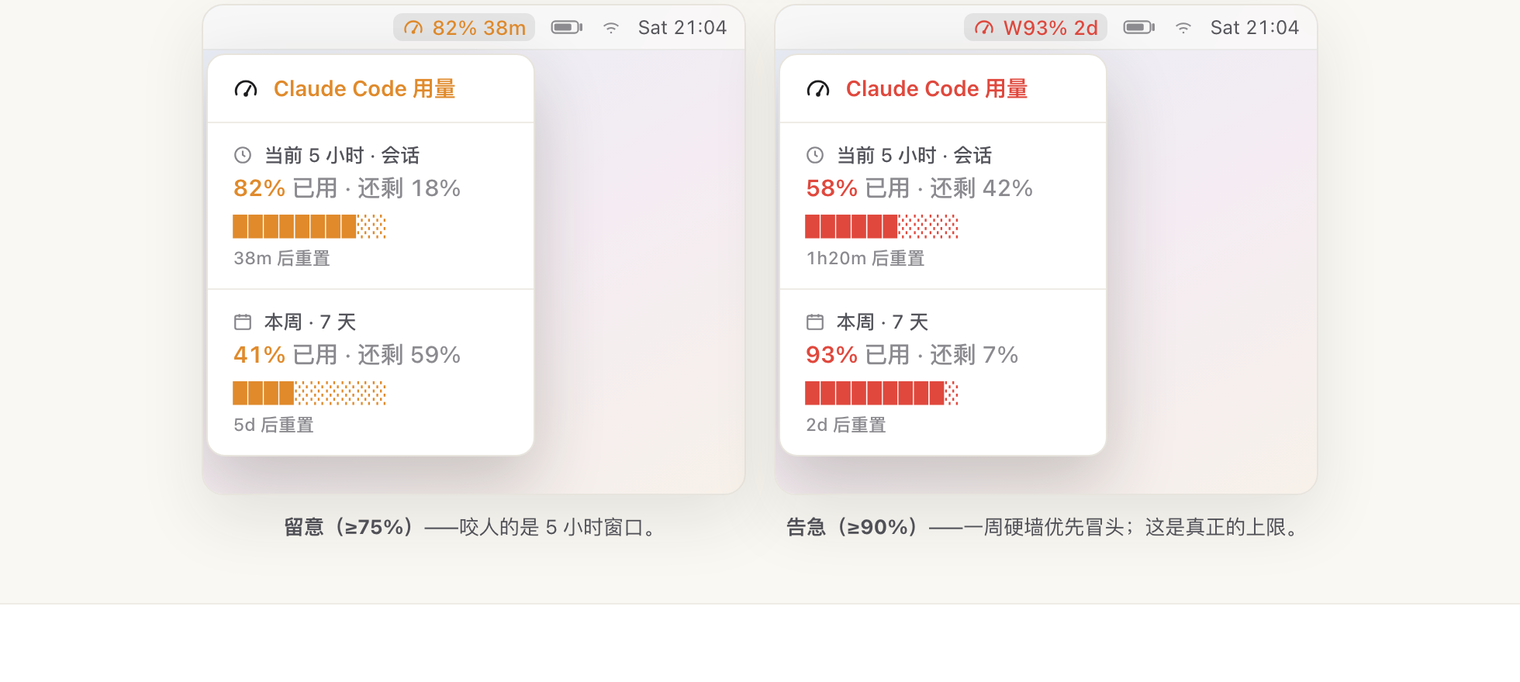
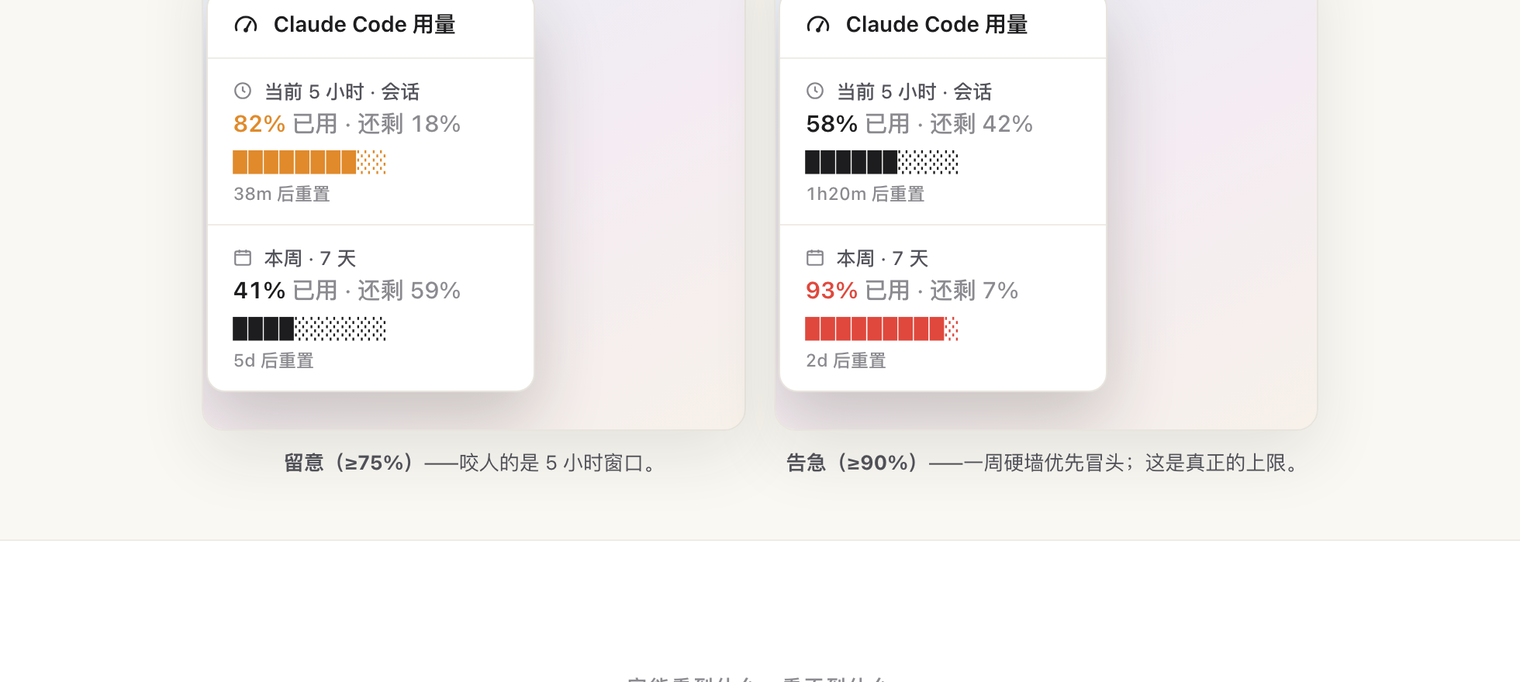
fix: dropdown inherited the gauge's warn/crit color, tinting whole card
Moving the dropdown inside the .mbg.warn/.crit span (to anchor it under the
gauge) made it inherit the alert color, so below-threshold rows and the
header rendered amber/red too. Reset .dropdown to var(--ink) so only rows
explicitly marked warn/crit are colored — matching the real plugin, which
colors each window by its own level (scol(fh)/scol(wk)). Regenerate states.png.

Changed region(s): [[0.4947, 0.0, 0.8658, 0.8006], [0.1237, 0.0, 0.4947, 0.8006], [0.402, 0.9853, 0.5566, 1.0]]

diff --git a/site/index.html b/site/index.html
@@ -82,10 +82,9 @@
 
   /* ---------- hero ---------- */
   .hero{padding:88px 0 40px;text-align:center}
-  .hero-checks{display:flex;flex-wrap:wrap;gap:9px 18px;justify-content:center;align-items:center;margin:0 auto 18px;max-width:640px}
-  .hero-checks span{display:inline-flex;align-items:center;gap:6px;font-size:15px;font-weight:550;color:var(--ink-soft)}
+  .hero-checks{display:flex;flex-wrap:wrap;gap:9px 18px;justify-content:center;align-items:center;margin:0 auto 30px;max-width:640px}
+  .hero-checks>span{display:inline-flex;align-items:center;gap:6px;font-size:15px;font-weight:550;color:var(--ink-soft)}
   .hero-checks svg{width:17px;height:17px;flex:none}
-  .hero-kicker{font-size:14.5px;color:var(--ink-faint);margin:0 auto 30px}
   h1{
     font-size:clamp(38px,6.4vw,68px);line-height:1.02;letter-spacing:-.035em;
     font-weight:700;margin:0 0 20px;
@@ -143,7 +142,7 @@
   @media(max-width:680px){.popover{position:static;margin-top:9px}}
   .dropdown{
     width:286px;background:#fff;border:1px solid var(--line);border-radius:12px;overflow:hidden;
-    box-shadow:0 24px 60px rgba(40,36,28,.28);text-align:left;
+    box-shadow:0 24px 60px rgba(40,36,28,.28);text-align:left;color:var(--ink);
   }
   @media(max-width:680px){.dropdown{width:min(286px,86vw)}}
   .dd-head{
@@ -337,7 +336,6 @@
       <span><svg><use href="#chk"/></svg> <span class="en">Zero quota cost</span><span class="zh">零额度消耗</span></span>
       <span><svg><use href="#chk"/></svg> <span class="en">Free &amp; open source</span><span class="zh">免费开源</span></span>
     </div>
-    <p class="hero-kicker"><span class="en">In short — it's just a very simple little tool.</span><span class="zh">总之，它只是一个非常简单的小工具。</span></p>
     <div class="hero-cta">
       <a class="btn btn-primary" href="#install">
         <svg width="16" height="16"><use href="#dial"/></svg> <span class="en">Get started</span><span class="zh">开始使用</span>
@@ -460,7 +458,7 @@
     <div class="sec-head">
       <span class="eyebrow"><span class="en">What it can and can't see</span><span class="zh">它能看到什么，看不到什么</span></span>
       <h2><span class="en">Private by design</span><span class="zh">绝对隐私安全</span></h2>
-      <p><span class="en">Most usage trackers tally your usage by reading your conversation logs — this one never reads a single word.</span><span class="zh">多数用量工具靠翻你的对话记录算用量——我一个字都不碰。</span></p>
+      <p><span class="en">Most usage trackers tally your usage by reading your conversation logs — this one never reads a single word.</span><span class="zh">多数用量工具靠翻你的对话记录算用量，它一个字都不碰</span></p>
     </div>
     <div class="priv-grid">
 
@@ -544,7 +542,7 @@
     <div class="sec-head">
       <span class="eyebrow"><span class="en">Why it's different</span><span class="zh">它有何不同</span></span>
       <h2><span class="en">Small, honest, and out of your way</span><span class="zh">小巧、诚实、不挡道</span></h2>
-      <p><span class="en">It only speaks up when it matters — and when it does, it tells the truth.</span><span class="zh">只在要紧时出声——出声时，说的都是实话。</span></p>
+      <p><span class="en">It only speaks up when it matters — and only ever tells the truth.</span><span class="zh">只在要紧时出声，而且只说实话。</span></p>
     </div>
     <div class="feat-grid">
 